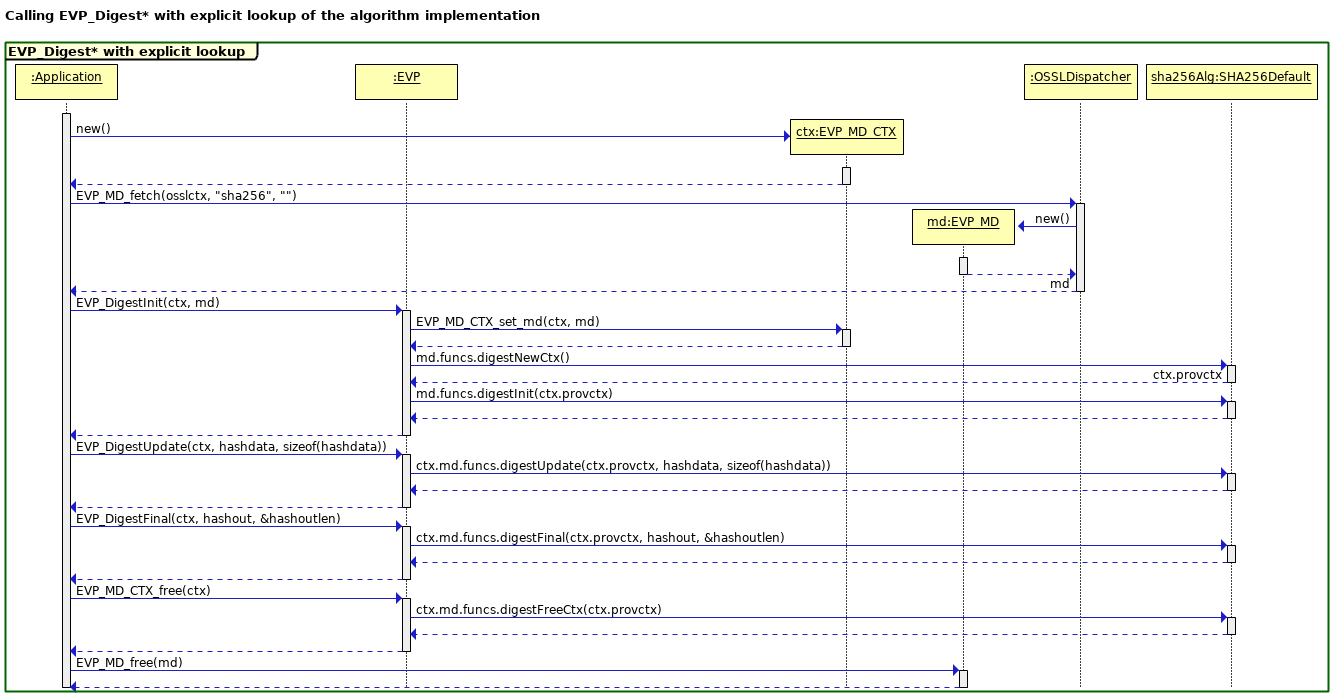
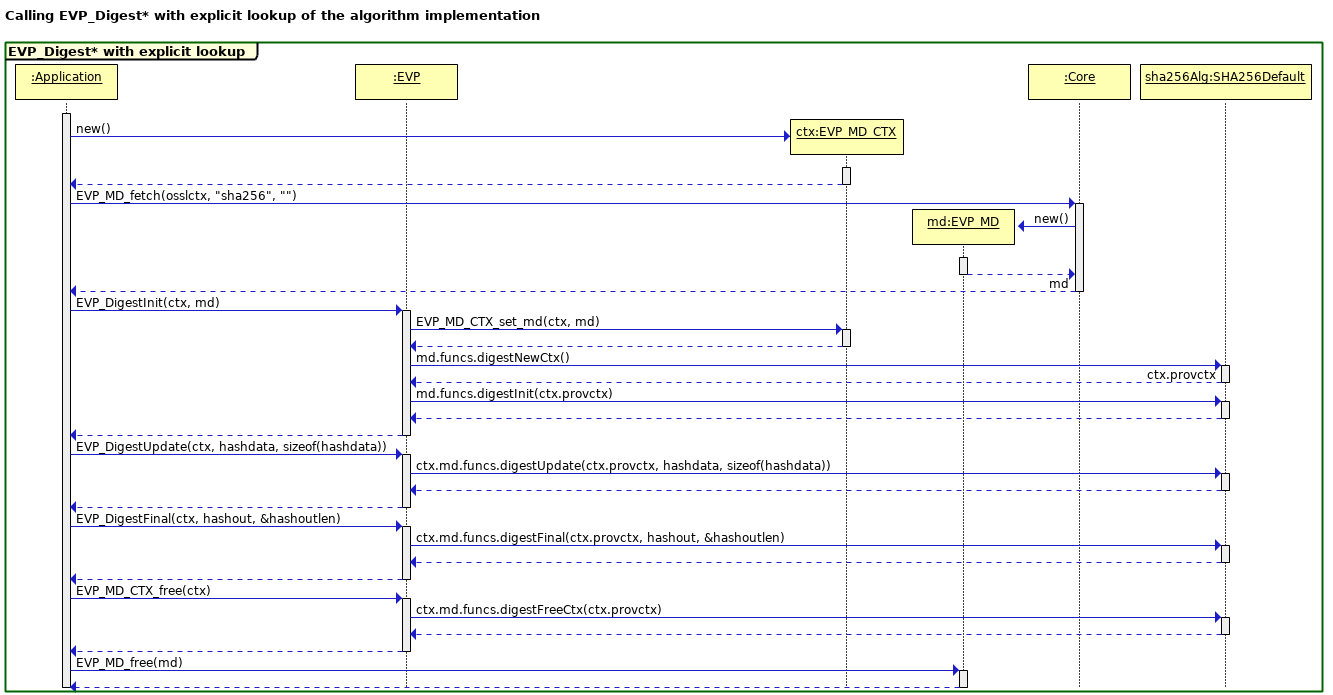
fixup! Add the OpenSSL 3.0.0 Design document (draft)

diff --git a/docs/OpenSSL300Design.md b/docs/OpenSSL300Design.md
@@ -435,7 +435,7 @@ Names are required for algorithms, parameters, and properties. In
 order to ensure consistency and to enable external Provider
 implementers to define new names in a consistent way there will be a
 registry of recommended or used names. It will be maintained
-separately from the sources..
+separately from the sources.
 
 The ability to define aliases for names is required because there are
 contexts where there are more than one name for the same thing
@@ -446,7 +446,7 @@ thing).
 
 Algorithm implementations (cryptographic and non-cryptographic) will
 have some properties which will be used to select an implementation
-from amongst those available.  For 3.0, two properties are defined:
+from amongst those available. For 3.0, two properties are defined:
 
 *   _is this implementation the default implementation?_
 *   _is this implementation FIPS validated_? 
@@ -849,6 +849,22 @@ _init_, _update_, _final _ functions for encryption. The set of
 functions is determined by the implementation of the upper-level EVP
 code.
 
+Operations are identified by a unique number. For example:
+
+
+```
+#define OSSL_OP_DIGEST                     1
+#define OSSL_OP_SYM_ENCRYPT                2
+#define OSSL_OP_SEAL                       3
+#define OSSL_OP_DIGEST_SIGN                4
+#define OSSL_OP_SIGN                       5
+#define OSSL_OP_ASYM_KEYGEN                6
+#define OSSL_OP_ASYM_PARAMGEN              7
+#define OSSL_OP_ASYM_ENCRYPT               8
+#define OSSL_OP_ASYM_SIGN                  9
+#define OSSL_OP_ASYM_DERIVE               10
+```
+
 For a provider to make an algorithm usable by libcrypto, it must
 register an operation querying callback, which returns an array of
 implementation descriptors, given an operation identity:
@@ -870,24 +886,11 @@ form of parameters as specified in
 provider, such as:
 
 
-
 *   version number
 *   Build strings - as per the current OpenSSL related build
     information (only at the provider level)
 *   Provider name
 
-```
-#define OSSL_OP_DIGEST                     1
-#define OSSL_OP_SYM_ENCRYPT                2
-#define OSSL_OP_SEAL                       3
-#define OSSL_OP_DIGEST_SIGN                4
-#define OSSL_OP_SIGN                       5
-#define OSSL_OP_ASYM_KEYGEN                6
-#define OSSL_OP_ASYM_PARAMGEN              7
-#define OSSL_OP_ASYM_ENCRYPT               8
-#define OSSL_OP_ASYM_SIGN                  9
-#define OSSL_OP_ASYM_DERIVE               10
-```
 
 An individual operation may require multiple function callbacks to be
 defined in order to implement the operation. Each function will be
@@ -1260,10 +1263,10 @@ algorithm might be selected and invoked from the default provider.
 Note that each EVP layer call is implemented by thin wrappers in the
 EVP layer, which invoke similarly named functions within the provider
 on an algorithm by algorithm basis. The specific provider functions to
-be used will be looked up in the OpenSSL Dispatcher tables via an
-explicit `EVP_MD_fetch()` call that specifies the NID and any other
-relevant properties. The returned "md" object contains function
-pointers to the implementation of the algorithm in the selected
+be used will be looked up in the Core Dispatcher tables via an
+explicit `EVP_MD_fetch()` call that specifies the message digest name as a
+string and any other relevant properties. The returned "md" object contains
+function pointers to the implementation of the algorithm in the selected
 provider.
 
 The `EVP_MD_CTX` object is not passed through to the provider since we
@@ -1592,7 +1595,7 @@ FIPS-using application runs) as well as algorithm KATs (which can be
 run once at installation time).
 
 The POST tests run during the call to the FIPS modules
-OSSL_provider_init() entry point.
+`OSSL_provider_init()` entry point.
 
 In order to implement the Integrity Test and KAT in the proper order,
 the module needs access to the following data items:
@@ -1626,13 +1629,13 @@ DEP ensure the tests are run, but allows us to implement the tests
 when the rest of the module is being initialized during normal
 operation.
 
-As part of the build process the integrity checksum of the fips module
+As part of the build process the integrity checksum of the FIPS module
 must be saved to a file. This could be done as a script.  It is just a
-HMAC_SHA256  of the entire fips module file with a known fixed key. If
+HMAC_SHA256  of the entire FIPS module file with a known fixed key. If
 the library is signed then the checksum would have to be calculated
 after the signature is applied.
 
-A fixed key of at least 112 bits will be embedded in the fips module
+A fixed key of at least 112 bits will be embedded in the FIPS module
 for all HMAC integrity operation(s), this key will also be made
 available to the external build script.
 
@@ -1642,7 +1645,7 @@ them fail.
 #### Integrity Checksum Location {#integrity-checksum-location}
 
 The integrity checksum will be saved into a seperate file during
-installation. This file will be in the same location as FIPS module
+installation. This file will be in the same location as the FIPS module
 itself by default, but may be configured to be in a different
 location.
 
@@ -1694,7 +1697,7 @@ indirectly. Lower level API's will still be required to set up keys
 a separate function.
 
 An init method  that sets up any required dependencies for the high
-level functions. Will be required i.e. `set_cpuid` may need to be
+level functions will be required i.e. `set_cpuid` may need to be
 called before doing primitive calls.
 
 API's for different types of self tests should be provided for
@@ -1809,7 +1812,7 @@ For KAS DH Params - two types are supported:
 If both types need to be supported then different key validation code
 will be required.
 
-The existing DH_Check() will require fips specific checks for the
+The existing `DH_Check()` will require FIPS specific checks for the
 approved types.
 
 Keygen is the same for both (the security strength and max bitlen of
@@ -1977,7 +1980,7 @@ justification is required from the lab.
 
 *   The `uninstantiate()` needs to demonstrate that the internal state
     has been zeroized.
-*   Failure testing requires a stick function for DRBG's (see old fips
+*   Failure testing requires a stick function for DRBG's (see old FIPS
     module).
 
 #### Other Items to Consider {#other-items-to-consider}
@@ -2074,8 +2077,8 @@ will verify that the implementation `OSSL_PROVIDER` object for that
 algorithm is the same as its own `OSSL_PROVIDER` object (i.e. the one
 that was passed to `OSSL_provider_init`). For example consider the
 case of an `EVP_DigestSign*` using RSA and SHA256. Both algorithms
-will be looked up externally to the FIPS module using the OpenSSL
-Dispatcher. The RSA signing algorithm is the first entry point and the
+will be looked up externally to the FIPS module using the
+Core. The RSA signing algorithm is the first entry point and the
 "init" call will be passed references to the SHA256 algorithm to be
 used. The FIPS module implementation will check that the
 `OSSL_PROVIDER` object associated that the SHA256 implementation that
@@ -2116,7 +2119,7 @@ using the public data structure defined in
 [Appendix 2 - OpenSSL parameter passing](#appendix-2---openssl-parameter-passing).
 
 The encoded digest OIDs used for **RSA PKCS #1 padding** will either
-be pre-generated (as was done in the old FOM using the SHA_DATA macro)
+be pre-generated (as was done in the old FIPS module using the SHA_DATA macro)
 or generated on demand using a simple function that only generates
 encoded OIDs for the small set of digests supported by PKCS #1
 padding. These digest OIDs occur in the "OID tree" under a common
@@ -2131,7 +2134,7 @@ padding; no DER parsing/decoding is required.
 ### Source code structure/tree clean-up {#source-code-structure-tree-clean-up}
 
 Cryptographic implementations (`crypto/evp/e_*.c` and most of
-`crypto/evp/m_*.c`; essentially any code that defines a `EVP_CIPHER`,
+`crypto/evp/m_*.c`; essentially any code that defines an `EVP_CIPHER`,
 `EVP_MD`, `EVP_PKEY_METHOD`, `EVP_MAC`, or `EVP_KDF`) must move out of
 the evp directory.  They will all end up being part of one or two
 providers, so they should end up in a provider specific sub-tree.
@@ -2207,14 +2210,14 @@ the FIPS provider via the EVP layer.
 
 Any special case code needed to return intermediate values (say for
 CAVS key generation), to display info (self test states), or change
-the normal flow of fips module code (e.g - self test failure or
+the normal flow of FIPS module code (e.g - self test failure or
 failing a keygen loop that supplies fixed rand values) will be
-controlled by embedding callbacks into the fips module code.
+controlled by embedding callbacks into the FIPS module code.
 
 It is recommended that this callback code would be conditionally
 compiled into the module, since some of the values should not be
 returned (e.g- intermediate values in keygen are not supposed to be
-output by the fips module).
+output by the FIPS module).
 
 rand_bytes() will be overridden for tests that require fixed
 rand_bytes to be used.
@@ -2223,7 +2226,7 @@ rand_bytes to be used.
 
 
 The application can optionally supply a single callback function that
-can be used to process values received from the fips module. (Multiple
+can be used to process values received from the FIPS module. (Multiple
 callbacks could be registered if this is required).
 
 The optional application callback would be of the form:
@@ -2236,14 +2239,14 @@ static int fips_test_callback(const char *type, void *arg)
 ```
 
 The return value can be used to control flow in special cases inside
-the fips module code.
+the FIPS module code.
 
-The type is passed in from the fips module hook. Each different hook
-in the fips module should have  a unique type. The type determines
+The type is passed in from the FIPS module hook. Each different hook
+in the FIPS module should have  a unique type. The type determines
 what the arg param contains (either a struct (e.g- intermediate
 values), a name, or int.
 
-The callback in the fips module will be of the form
+The callback in the FIPS module will be of the form
 
 ``` C
 MY_STRUCT  data;   /* values that need to be returned to the application */
@@ -2284,9 +2287,9 @@ Where:
 
 ### CAVS Testing {#cavs-testing}
 
-Cavs testing will be performed by the lab.
+CAVS testing will be performed by the lab.
 
-However each cavs tests file could also be sampled and added to the
+However each CAVS tests file could also be sampled and added to the
 unit tests. This would mean converting the file data of a single test
 into binary data inside a unit test.
 
@@ -2296,8 +2299,8 @@ This will ensure the following:
 
 
 
-*   The required interfaces will be available to the cavs tests (some
-    cavs tests require access to internals, that are not normally
+*   The required interfaces will be available to the CAVS tests (some
+    CAVS tests require access to internals, that are not normally
     needed).
 *   That the algorithm works.
 *   Coverage.
@@ -2310,7 +2313,8 @@ labs finds missing accessors for internals.
 
 ### EVP to low level API bridges {#evp-to-low-level-api-bridges}
 
-The impact on the public `EVP_PKEY` is that it will have to keep a
+There are places where low level API structures are assigned to an `EVP_PKEY`
+object. The impact on the public `EVP_PKEY` is that it will have to keep a
 pointer to a possible low level structure and the type of that low
 level structure must be known internally in `libcrypto`.  Any time the
 `EVP_PKEY` with such a pointer is used for any computation, it must
@@ -2558,7 +2562,7 @@ following items:
 *   The size of the value
 *   The value itself
 
-Any parameter that are used to request values _from_ a module will
+Any parameters that are used to request values _from_ a module will
 need the following items:
 
 *   An identifier to indicate what is being requested
@@ -2636,7 +2640,7 @@ This specification supports the following parameter types:
 *   `UNSIGNED_INTEGER`
     *   These are arbitrary length and may therefore require an
         arbitrarily sized buffer.
-    *   The number is store in native form, i.e. MSB first on big
+    *   The number is stored in native form, i.e. MSB first on big
         endian systems and LSB first on little endian systems.  This
         means that arbitrary native integers can be stored in the
         buffer, just make sure that the buffer size is correct and
@@ -2715,7 +2719,7 @@ cookie = 0
 ```
 
 The Core side provider structure for the provider "foo" could then
-answer to these request parameter keys:
+answer to these requested parameter keys:
 
 *   `"provider_id"` (value is `"myfoo"`)
 *   `"module_path"` (value is `"/usr/share/openssl/providers/foo.so"`)
